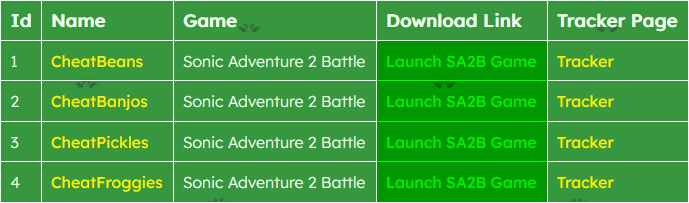
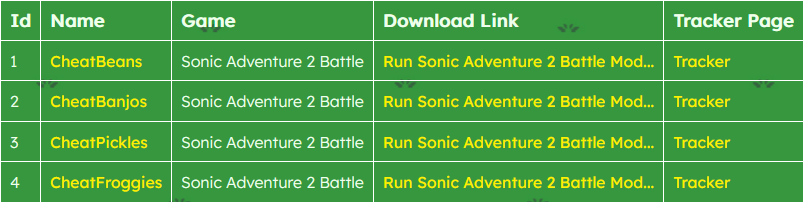
Adjust display text for JS, and add update url

diff --git a/APSA2BLinker.user.js b/APSA2BLinker.user.js
@@ -1,12 +1,14 @@
 // ==UserScript==
-// @name         Archipelago SA2B Instant Launch Linker
+// @name         Archipelago SA2B Linker
 // @namespace    http://tampermonkey.net/
-// @version      1.0
-// @description  Add an instant launch command for SA2B AP games to be used with the URL handler program.
+// @version      1.1
+// @description  Add an apsa2b:// URL to be used with the URL handler program.
 // @author       CheatFreak
 // @match        https://archipelago.gg/room/*
 // @grant        none
 // @require      https://ajax.googleapis.com/ajax/libs/jquery/3.5.1/jquery.min.js
+// @downloadURL  https://raw.githubusercontent.com/cheatfreak47/apsa2b-linker-handler/main/APSA2BLinker.user.js
+// @updateURL    https://raw.githubusercontent.com/cheatfreak47/apsa2b-linker-handler/main/APSA2BLinker.user.js
 // ==/UserScript==
 
 (function() {
@@ -28,7 +30,7 @@
                         // Replace the protocol in the href attribute
                         var href = link.attr('href').replace('archipelago://', 'apsa2b://');
                         // Replace the <td> contents with the new link
-                        td.html('<a href="' + href + '">Launch SA2B Game</a>');
+                        td.html('<a href="' + href + '">Run Sonic Adventure 2 Battle Mod...</a>');
                     }
                 }
             }
